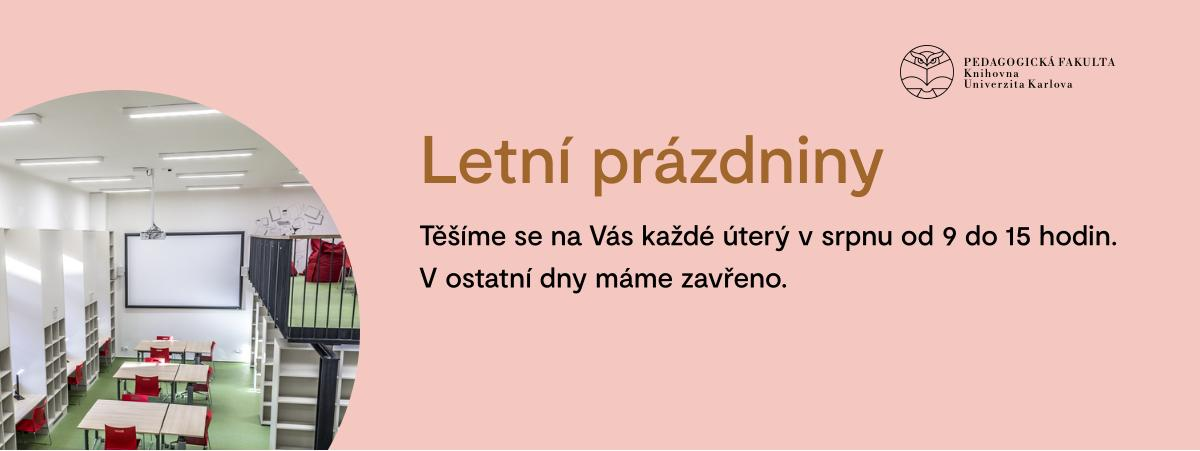
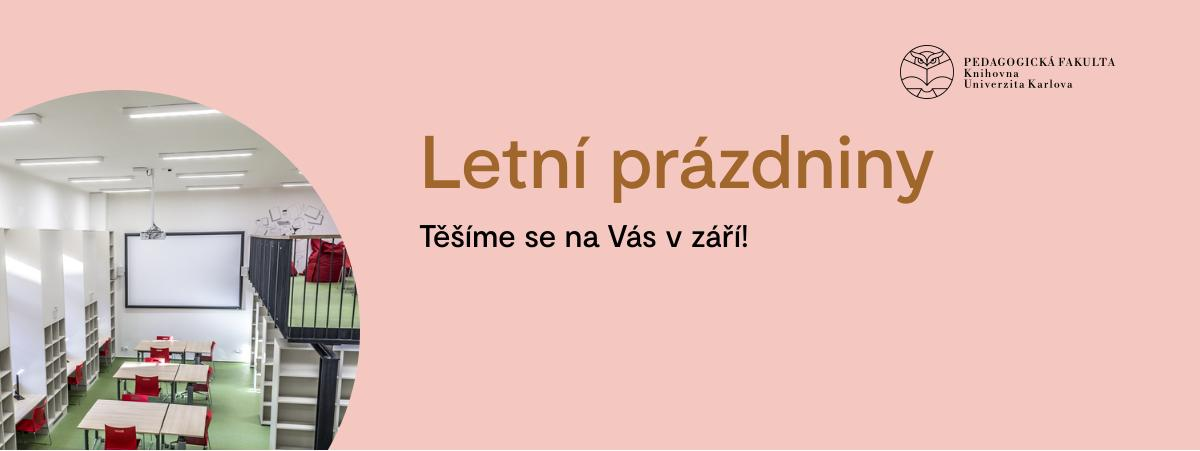
asi budeme zavřený celej srpen

Changed region(s): [[0.3392, 0.2794, 0.8017, 0.4656], [0.3392, 0.4967, 0.925, 0.5588], [0.3392, 0.5898, 0.6475, 0.6519]]

diff --git a/bannery/leto.tex b/bannery/leto.tex
@@ -51,7 +51,8 @@
     \bgroup
     \color[HTML]{#1}
     \putongrid{0}{2}{
-      Těšíme se na Vás každé úterý v srpnu od 9 do 15 hodin.\\ V ostatní dny máme zavřeno.
+      % Těšíme se na Vás každé úterý v srpnu od 9 do 15 hodin.\\ V ostatní dny máme zavřeno.
+      Těšíme se na Vás v září!
     %   \strut Studovny v Rettigové\par\bigskip
     %   \begin{tabular}{@{}ll@{}}
     %     Po--čt: & 8:00 -- 18:00 \\
